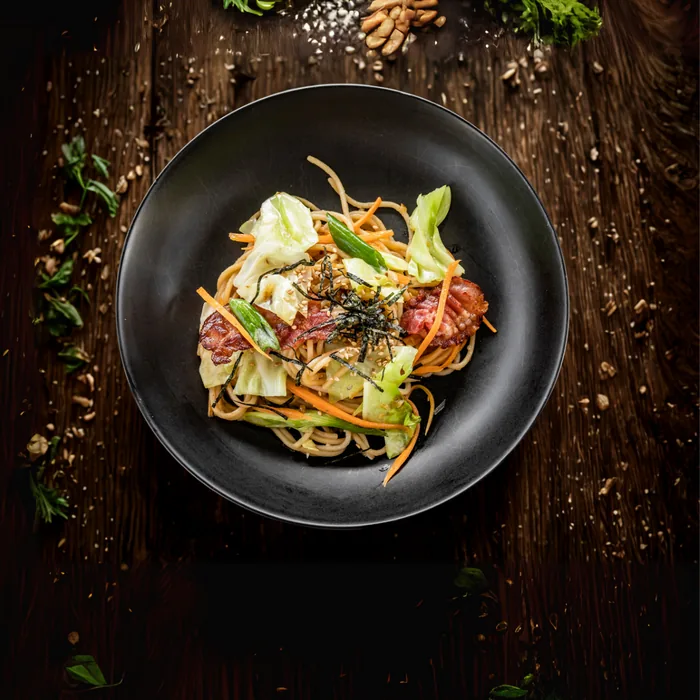
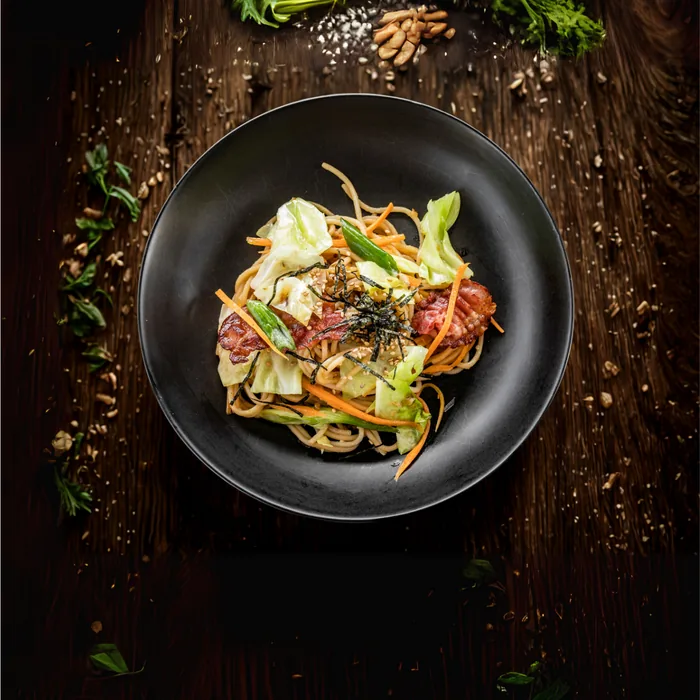
Gerichtefotos: weniger Zoom, Teller auf 72 statt 80 Prozent
Felix' Rueckmeldung: zu nah herangezoomt. Stimmt — bei 0,80 stand der
Teller bis fast an den Bildrand.

Was ich vorher geprueft habe

  Kleinere Werte als 0,72 bringen nichts. Bei 0,65 erreicht nur noch ein
  einziges der zwanzig Bilder das Ziel, alle anderen liegen zwischen 0,65
  und 1,00 — die Streuung waere also groesser statt kleiner. Der Grund
  ist einfach: Die Vorlagen haben nicht genug Rand.

  Fehlenden Rand zu ergaenzen wurde getestet und verworfen. Der Ansatz —
  unscharfe, abgedunkelte Vergroesserung des Bildes als Hintergrund,
  Original mittig davor — funktioniert bei Pad Thai und Massaman
  ueberzeugend, erzeugt beim Java Curry aber einen sichtbaren hellen Ring
  und beim Hoisin Chicken eine senkrechte Kante. Das faellt auf und wirkt
  billiger als das Problem, das es loest.

Ergebnis

  0,72 als Zielgroesse, ohne Tricks. Neun der zwanzig erreichen den Wert
  exakt, die uebrigen liegen zwischen 0,73 und 1,00 statt wie vorher
  zwischen 0,80 und 1,00. Fuenfzehn Bilder haben spuerbar mehr Luft, die
  Teller bleiben mittig.

  Weiterhin eng, weil im Original kein Rand mehr da ist: Java Curry
  (randlos), Gelbes Curry (0,87), Mango Sticky Rice (0,93), Orange
  Chicken (0,84), Pad Thai (0,83), Panang (0,82), Gruenes Curry (0,85).
  Dort hilft nur eine neue Aufnahme mit mehr Abstand.

  Begruendung und verworfene Ansaetze stehen als Kommentar in
  tools/tellerwerte.py, damit die naechste Runde nicht dieselben Sackgassen
  noch einmal geht.

diff --git a/tools/tellerwerte.py b/tools/tellerwerte.py
@@ -35,8 +35,15 @@ TELLER = {
  "yakisoba":                      (0.53, 0.55, 0.77),
 }
 
-# Zielanteil des Tellers an der Bildbreite. 0,80 liegt oberhalb des Medians
-# (0,73) und ist fuer 15 der 20 Vorlagen ohne Anschnitt erreichbar. Die fuenf
-# darueber (0,82 bis 0,93) behalten ihren groesseren Teller — dort ist im
-# Original schlicht kein Rand mehr uebrig.
-ZIEL_D = 0.80
+# Zielanteil des Tellers an der Bildbreite.
+#
+# 0,80 war zu formatfuellend — der Teller stand bis fast an den Rand. 0,72 gibt
+# spuerbar mehr Luft und ist fuer neun der zwanzig Vorlagen exakt erreichbar;
+# die uebrigen bleiben groesser, weil im Original schlicht kein Rand mehr da ist.
+#
+# Kleinere Werte bringen nichts: Bei 0,65 erreicht nur noch ein einziges Bild
+# das Ziel, alle anderen liegen zwischen 0,65 und 1,00 — die Streuung waere also
+# groesser statt kleiner. Fehlenden Rand durch eine unscharfe Fortsetzung des
+# Bildes zu ergaenzen wurde getestet und verworfen: Beim Java Curry entstand ein
+# sichtbarer heller Ring, beim Hoisin Chicken eine senkrechte Kante.
+ZIEL_D = 0.72
